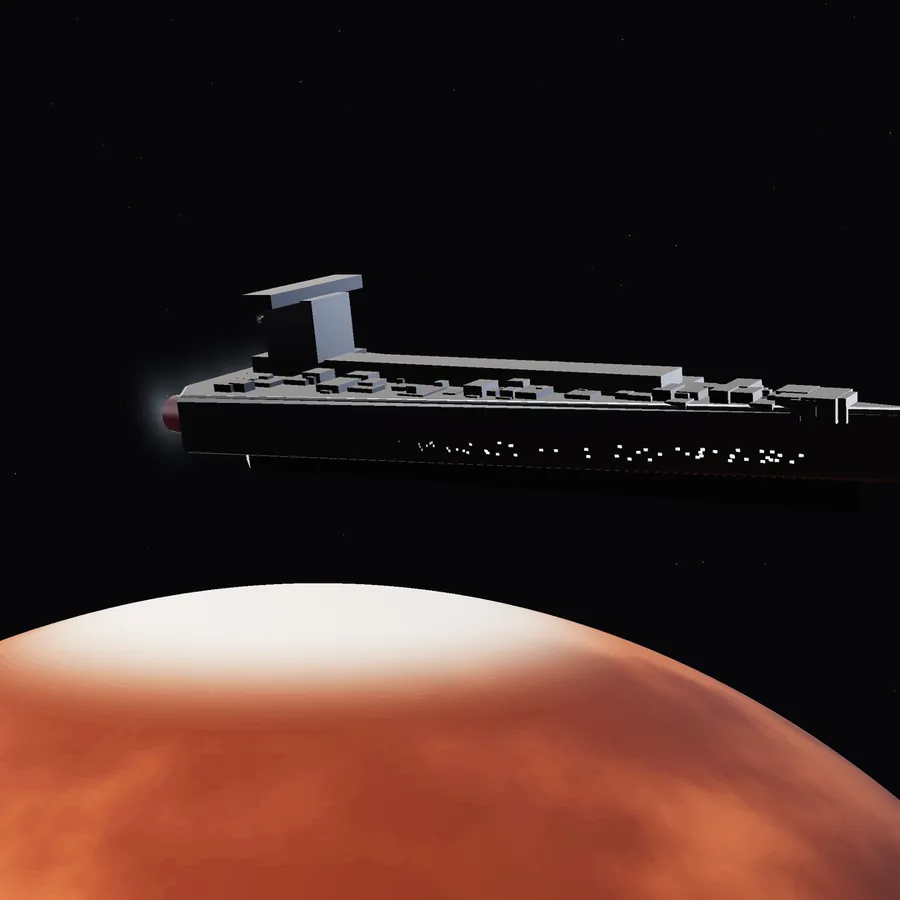
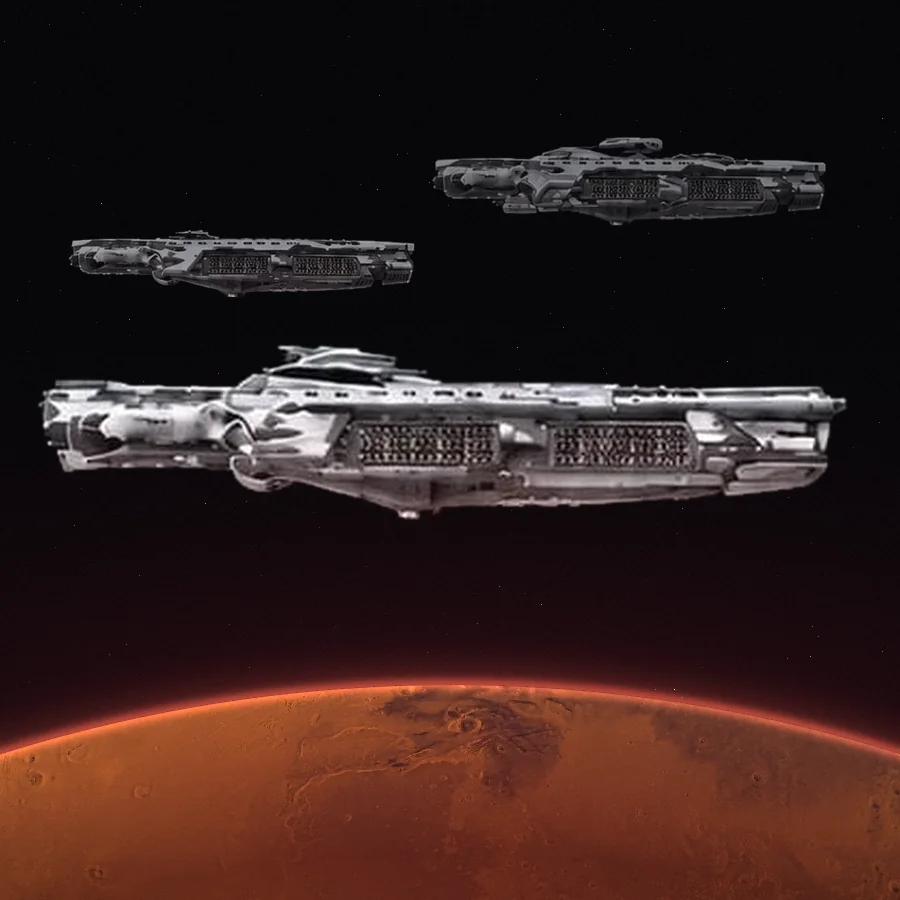
the-rising-archive: burgundy corners site-wide; retired renders gone; real ship plates
- The ambient: the dossier header's burgundy, as a fixed layer behind
  every page, fading in from the top-left corner with a fainter echo from
  the bottom-right; headers no longer add their own red glow on top.
- Every generated image is retired: relic renders, code-drawn book plates
  and the old place/seal/Rising/vault renders are deleted, the Fan Art
  page becomes Fan art and sources, and Sons of Ares shows Fitchner's
  framed portrait.
- Dreadnoughts and starships: ship art from the video game Dreadnought
  (the owner's image) in formation over NASA's Mars, credited as a
  stand-in. PsychoSpike: a 19th-century hairpin from The Met.
- Grid cells lift their content inside the cell on reveal, so the grid
  line colour no longer flashes through the gap; the footer's image note
  is accurate again.

Claude-Session: https://claude.ai/code/session_013FcwhpvnvFTAqo8e5UMege

diff --git a/the-rising-archive/app/fandom/fan-art/page.tsx b/the-rising-archive/app/fandom/fan-art/page.tsx
@@ -1,7 +1,5 @@
 import type { Metadata } from "next";
 import PageHeader from "@/components/typography/PageHeader";
-import Plate from "@/components/archive/Plate";
-import Spotlight from "@/components/archive/Spotlight";
 import FramedPortrait from "@/components/archive/FramedPortrait";
 import { getExtended } from "@/lib/data/extended";
 import { getPerson, safeAs } from "@/lib/data/people";
@@ -15,45 +13,18 @@ const portraitName = (slug: string) => {
 };
 
 export const metadata: Metadata = {
-  title: "The archive’s plates",
-  description: "The character portraits, fan art credited to its artists, and the archive’s own images: three.js renders and code-drawn plates made for this site.",
+  title: "Fan art and sources",
+  description: "The character portraits, fan art credited to its artists, and the source of every other image on the site.",
   alternates: { canonical: "./" },
 };
-
-const GROUPS: { title: string; note: string; items: { src: string; alt: string; w?: number; h?: number }[] }[] = [
-  {
-    title: "Six books",
-    note: "Code-drawn plates, one symbol per book. Not the published covers.",
-    items: ["red-rising", "golden-son", "morning-star", "iron-gold", "dark-age", "light-bringer"].map((s) => ({ src: `/images/books/${s}.webp`, alt: `Book plate for ${s.replace(/-/g, " ")}.`, w: 900, h: 1350 })),
-  },
-  {
-    title: "Twenty relics",
-    note: "One object for each of the twenty, rendered as museum pieces. They stood in for the portraits before the portraits came.",
-    items: ["darrow", "virginia", "cassius", "sevro", "pax", "diomedes", "atlas", "lysander", "victra", "the-jackal", "apollonius", "lyria", "ephraim", "volga", "ragnar", "kavax", "fitchner", "lorn", "orion", "romulus"].map((s) => ({ src: `/images/people/${s}.webp`, alt: `The relic for ${s.replace(/-/g, " ")}.` })),
-  },
-  {
-    title: "The Rising",
-    note: "A movement, a war, a myth, a government.",
-    items: ["movement", "war", "myth", "government"].map((s) => ({ src: `/images/renders/rising/${s}.webp`, alt: `The Rising: ${s}.`, w: 1600, h: 900 })),
-  },
-  {
-    title: "Worlds, seals and machines",
-    note: "Planets, house seals, and the Artifact Vault.",
-    items: [
-      ...["mars", "luna", "earth", "mercury", "venus", "io"].map((s) => ({ src: `/images/renders/places/${s}.webp`, alt: `${s}, rendered.` })),
-      ...["augustus", "bellona", "lune", "telemanus", "raa"].map((s) => ({ src: `/images/renders/houses/${s}.webp`, alt: `The ${s} seal.` })),
-      ...["razor", "starshell", "dreadnought", "starship", "minds-eye", "carving", "psychospike", "holotech"].map((s) => ({ src: `/images/renders/vault/${s}.webp`, alt: `${s.replace(/-/g, " ")}, from the Vault.` })),
-    ],
-  },
-];
 
 export default function FanArtPage() {
   return (
     <>
       <PageHeader
         trail={[{ href: "/", label: "Archive" }, { href: "/fandom/", label: "The Fandom" }, { href: "/fandom/fan-art/", label: "Fan art" }]}
-        title="The archive’s plates"
-        lede="The character portraits are the fandom’s work, credited to the artists below. The renders further down are the archive’s own: three.js scenes and posters drawn in code. Where a real, public-domain image came closer, the site uses it instead; those are listed at the end."
+        title="Fan art and sources"
+        lede="The character portraits are the fandom’s work, credited to the artists below. Every other image on the site is a real object, painting, photograph or published cover, and each is listed at the end with where it came from."
       >
         <p className="mt-6 max-w-[56ch] text-sm text-ash-2">
           For the fandom’s real artists, go where they post:{" "}
@@ -84,26 +55,11 @@ export default function FanArtPage() {
           </ul>
         </div>
       </section>
-      {GROUPS.map((g) => (
-        <section key={g.title} aria-labelledby={g.title} className="border-t border-line px-5 py-16 md:px-8">
-          <div className="mx-auto max-w-[1400px]">
-            <h2 id={g.title} className="font-display text-h3 font-bold uppercase">{g.title}</h2>
-            <p className="mt-2 text-ash">{g.note}</p>
-            <ul role="list" className={g.title === "Six books" ? "mt-8 grid grid-cols-2 gap-3 md:grid-cols-6" : g.title === "The Rising" ? "mt-8 grid gap-3 md:grid-cols-2" : "mt-8 grid grid-cols-2 gap-3 md:grid-cols-5"}>
-              {g.items.map((it) => (
-                <Spotlight as="li" tone="gold" key={it.src}>
-                  <Plate src={it.src} alt={it.alt} width={it.w ?? 900} height={it.h ?? 900} sizes="(min-width: 768px) 20vw, 50vw" />
-                </Spotlight>
-              ))}
-            </ul>
-          </div>
-        </section>
-      ))}
       <section aria-labelledby="sources-title" className="border-t border-line px-5 py-16 md:px-8">
         <div className="mx-auto max-w-[1400px]">
           <h2 id="sources-title" className="font-display text-h3 font-bold uppercase">Real images used on the site</h2>
           <p className="mt-2 max-w-[70ch] text-ash">
-            Where a real object, painting or photograph came close to what the books describe, it replaced the archive’s render. All are public domain: The Met’s Open Access collection and NASA.
+            Where a real object, painting or photograph came close to what the books describe, it stands in for the thing itself. Most are public domain, from The Met’s Open Access collection and NASA. The two warship plates are art from the video game Dreadnought, credited to it. The book covers are credited on the Story pages.
           </p>
           <ul role="list" className="mt-8 grid gap-x-10 gap-y-3 md:grid-cols-2">
             {Object.entries(CREDITS).map(([src, c]) => (

diff --git a/the-rising-archive/lib/data/credits.ts b/the-rising-archive/lib/data/credits.ts
@@ -1,9 +1,9 @@
-// Public-domain images that replaced the archive's generated plates where a
-// real thing came close to the description (scripts/art/sourced.py). Every
-// one is public domain: The Metropolitan Museum of Art's Open Access
+// Real images that replaced the archive's generated plates where a
+// real thing came close to the description (scripts/art/sourced.py). All
+// but two are public domain: The Metropolitan Museum of Art's Open Access
 // (CC0) and NASA imagery (not copyrighted). The generated originals are
-// kept in /images/renders/ for the Fan Art page. Dreadnoughts, starships
-// and PsychoSpikes keep their renders: nothing real comes close.
+// retired. The dreadnought and starship plates are ship art from the video
+// game Dreadnought (the owner's image), credited as a stand-in.
 
 export type Credit = { title: string; by: string; source: string; url: string; alt: string };
 
@@ -11,6 +11,9 @@ const met = (id: number) => `https://www.metmuseum.org/art/collection/search/${i
 const nasa = (id: string) => `https://images.nasa.gov/details/${id}`;
 const MET = "The Metropolitan Museum of Art, Open Access (public domain)";
 const NASA = "NASA (public domain)";
+// Not public domain: game art the owner supplied, used as a stand-in the
+// way the rapier stands in for a razor, and credited to the game.
+const GAME = "Video game art, a stand-in (not public domain)";
 
 export const CREDITS: Record<string, Credit> = {
   "/images/vault/razor.webp": { title: "Rapier", by: "Italian, ca. 1610–20", source: MET, url: met(22369), alt: "A rapier’s ornate steel hilt, standing in for a razor." },
@@ -18,6 +21,9 @@ export const CREDITS: Record<string, Credit> = {
   "/images/vault/minds-eye.webp": { title: "Wedjat Eye Amulet", by: "Egyptian, 332–30 BCE", source: MET, url: met(550940), alt: "A gold Eye of Horus amulet." },
   "/images/vault/carving.webp": { title: "Bronze scalpel", by: "Roman, 1st–2nd century CE", source: MET, url: met(244206), alt: "A Roman bronze scalpel." },
   "/images/vault/holotech.webp": { title: "Terracotta roundels in the form of theatrical masks", by: "Greek, 1st century BCE", source: MET, url: met(257595), alt: "Two theatre masks, one grave, one grinning." },
+  "/images/vault/dreadnought.webp": { title: "Invictus, Lorica and Gravis", by: "Dreadnought (YAGER), over NASA’s Mars", source: GAME, url: "https://en.wikipedia.org/wiki/Dreadnought_(video_game)", alt: "Three dreadnoughts in formation above the limb of Mars, standing in for the Pax." },
+  "/images/vault/starship.webp": { title: "Zaratan leading a formation", by: "Dreadnought (YAGER), over NASA’s Mars", source: GAME, url: "https://en.wikipedia.org/wiki/Dreadnought_(video_game)", alt: "A gold-trimmed warship leading a formation of cruisers above Mars." },
+  "/images/vault/psychospike.webp": { title: "Hairpin", by: "Sri Lankan, 19th century", source: MET, url: met(90207), alt: "An ornate 19th-century hairpin beside its cap, standing in for a PsychoSpike." },
   "/images/houses/augustus.webp": { title: "Marble statue of a lion", by: "Greek, ca. 400–390 BCE", source: MET, url: met(248140), alt: "A marble lion, crouched to spring." },
   "/images/houses/bellona.webp": { title: "Eagle", by: "American, 1809–11", source: MET, url: met(17139), alt: "A gilded eagle, wings spread." },
   "/images/houses/telemanus.webp": { title: "Netsuke of Fox", by: "Japanese, 19th century", source: MET, url: met(60375), alt: "A carved ivory fox." },

diff --git a/the-rising-archive/components/navigation/SiteFooter.tsx b/the-rising-archive/components/navigation/SiteFooter.tsx
@@ -2,13 +2,13 @@ import Link from "next/link";
 
 export default function SiteFooter() {
   return (
-    <footer className="relative z-10 border-t border-line bg-void">
+    <footer className="relative z-10 border-t border-line bg-void/40">
       {/* pb leaves room for the fixed sealed-passages notice */}
       <div className="mx-auto grid max-w-[1400px] gap-10 px-5 pt-16 pb-28 md:grid-cols-[2fr_1fr_1fr] md:px-8">
         <div>
           <p className="font-display text-3xl font-bold tracking-tight uppercase">The Red Rising Archive</p>
           <p className="mt-4 max-w-[52ch] text-sm text-ash">
-            An unofficial fan archive. Red Rising, its characters and its world belong to Pierce Brown and his publishers. Plot facts here were checked against published sources; interpretation is marked as the archivist&rsquo;s own. The book covers are the publisher&rsquo;s (Del Rey, Penguin Random House), shown to identify the books. The character portraits are fan art, credited to their artists on the Fan Art page. The planets are NASA photographs, and the museum pieces and paintings come from The Met’s public-domain collection. Everything else was made for this site.
+            An unofficial fan archive. Red Rising, its characters and its world belong to Pierce Brown and his publishers. Plot facts here were checked against published sources; interpretation is marked as the archivist&rsquo;s own. The book covers are the publisher&rsquo;s (Del Rey, Penguin Random House), shown to identify the books. The character portraits are fan art, credited to their artists on the Fan Art page. The planets are NASA photographs, the museum pieces and paintings come from The Met’s public-domain collection, and the two warship plates are art from the video game Dreadnought, as stand-ins. Every source is listed on the Fan Art page.
           </p>
         </div>
         <nav aria-label="Footer">

diff --git a/the-rising-archive/components/archive/Reveal.tsx b/the-rising-archive/components/archive/Reveal.tsx
@@ -11,25 +11,31 @@ gsap.registerPlugin(ScrollTrigger, useGSAP);
 /** Scroll reveal that NEVER touches opacity: only a lift. Content is fully
  * readable if JS fails, under a full-page screenshot, in print, and under
  * reduced motion (where the tween is skipped entirely). Lesson carried over
- * from this repo’s book-site-react and red-rising-archive builds. */
+ * from this repo’s book-site-react and red-rising-archive builds.
+ * `cell`: for a cell in a hairline grid (gap-px over bg-line). The content
+ * lifts inside the cell instead of the cell itself, so the grid's line
+ * colour never shows through the gap while it moves. */
 export default function Reveal({
   children,
   as: Tag = "div",
   delay = 0,
   y = 28,
   className,
+  cell = false,
 }: {
   children: React.ReactNode;
   as?: React.ElementType;
   delay?: number;
   y?: number;
   className?: string;
+  cell?: boolean;
 }) {
   const ref = useRef<HTMLElement>(null);
+  const inner = useRef<HTMLDivElement>(null);
   useGSAP(
     () => {
       if (!ref.current || prefersReducedMotion()) return;
-      gsap.from(ref.current, {
+      gsap.from(cell && inner.current ? inner.current : ref.current, {
         y,
         duration: duration.reveal,
         delay,
@@ -41,7 +47,13 @@ export default function Reveal({
   );
   return (
     <Tag ref={ref} className={className}>
-      {children}
+      {cell ? (
+        <div ref={inner} className="h-full">
+          {children}
+        </div>
+      ) : (
+        children
+      )}
     </Tag>
   );
 }

diff --git a/the-rising-archive/app/world/vault/page.tsx b/the-rising-archive/app/world/vault/page.tsx
@@ -22,12 +22,12 @@ export default function VaultPage() {
         tone="rim"
         trail={[{ href: "/", label: "Archive" }, { href: "/world/", label: "The World" }, { href: "/world/vault/", label: "Vault" }]}
         title="The Artifact Vault"
-        lede="The machinery of the war, catalogued like museum pieces. Where something real comes close, it stands in: a real sword for the razor, real armour for the StarShell. The rest are the archive’s own renders."
+        lede="The machinery of the war, catalogued like museum pieces. Where something real comes close, it stands in: a real sword for the razor, real armour for the StarShell, a video game’s warships for the fleet, a hairpin for the PsychoSpike."
       />
       <section aria-label="Artifacts" className="px-5 pb-20 md:px-8">
         <ul role="list" className="mx-auto grid max-w-[1400px] gap-px bg-line md:grid-cols-2">
           {VAULT.map((a, i) => (
-            <Reveal as="li" key={a.slug} delay={(i % 2) * 0.06} className="bg-void">
+            <Reveal as="li" cell key={a.slug} delay={(i % 2) * 0.06} className="bg-void">
               <Spotlight as="article" tone="red" className={cn("grid h-full gap-0 sm:grid-cols-2", i % 4 >= 2 && "sm:[&>*:first-child]:order-2")}>
                 <Plate src={a.plate} alt={altFor(a.plate, `${a.name}, rendered for this archive.`)} className="aspect-square object-cover" sizes="(min-width: 768px) 25vw, 50vw" />
                 <div className="flex flex-col p-6 md:p-8">

diff --git a/the-rising-archive/app/people/[slug]/page.tsx b/the-rising-archive/app/people/[slug]/page.tsx
@@ -79,7 +79,7 @@ function Special({ person }: { person: Person }) {
       ["Status", "Banished from the Core to the Kuiper Belt in 739 PCE. Later returned."],
     ];
     return (
-      <section aria-label="The Atlas files" className="border-t border-line bg-void-2 px-5 py-20 md:px-8">
+      <section aria-label="The Atlas files" className="border-t border-line bg-void-2/60 px-5 py-20 md:px-8">
         <div className="mx-auto max-w-[1100px]">
           <div className="flex flex-wrap items-center gap-4">
             <h2 className="font-mono text-lg tracking-[0.3em] text-rim uppercase">The Atlas files</h2>
@@ -123,7 +123,6 @@ export default async function DossierPage({ params }: PageProps<"/people/[slug]"
           aria-hidden
           className={cn(
             "pointer-events-none absolute inset-0",
-            person.register === "red" && "bg-[radial-gradient(ellipse_70%_70%_at_10%_0%,rgba(122,15,23,0.32),transparent_70%)]",
             person.register === "gold" && "bg-[radial-gradient(ellipse_70%_70%_at_10%_0%,rgba(146,111,52,0.2),transparent_70%)]",
             person.register === "rim" && "bg-[radial-gradient(ellipse_70%_70%_at_10%_0%,rgba(170,178,186,0.16),transparent_70%)]",
             person.register === "none" && "bg-[radial-gradient(ellipse_70%_70%_at_10%_0%,rgba(147,143,136,0.12),transparent_70%)]",

diff --git a/the-rising-archive/app/globals.css b/the-rising-archive/app/globals.css
@@ -152,8 +152,9 @@
   html {
     background: var(--void);
   }
+  /* No body background: the html ground and the fixed .ambient layer
+     show through it. */
   body {
-    background: var(--void);
     color: var(--bone);
     font-family: var(--font-sans), system-ui, sans-serif;
     font-size: var(--text-body);
@@ -194,6 +195,21 @@ html.lenis, html.lenis body { height: auto; }
 .lenis.lenis-smooth { scroll-behavior: auto !important; }
 .lenis.lenis-smooth [data-lenis-prevent] { overscroll-behavior: contain; }
 .lenis.lenis-stopped { overflow: hidden; }
+
+/* The ambient: the dossier header's burgundy, made site-wide (the user's
+   call). A fixed layer behind every page, so each screen, wherever you
+   scroll, has burgundy fading in from the top-left corner and a fainter
+   echo from the bottom-right, and the middle stays near-black for text.
+   Sections without their own ground let it through; cards sit on it. */
+.ambient {
+  position: fixed;
+  inset: 0;
+  z-index: -1;
+  pointer-events: none;
+  background:
+    radial-gradient(ellipse 75% 70% at 4% 0%, rgba(122, 15, 23, 0.44), transparent 70%),
+    radial-gradient(ellipse 52% 48% at 100% 100%, rgba(122, 15, 23, 0.22), transparent 70%);
+}
 
 /* Film grain: fixed, pointer-events-none, never on a scrolling container. */
 .grain {

diff --git a/the-rising-archive/app/fandom/page.tsx b/the-rising-archive/app/fandom/page.tsx
@@ -24,7 +24,7 @@ export default function FandomPage() {
       >
         <div className="mt-10 flex flex-wrap gap-8 font-mono text-meta tracking-[0.2em] uppercase">
           <Link href="/fandom/quotes/" className="border-b border-red pb-1 hover:text-red">Words that survived</Link>
-          <Link href="/fandom/fan-art/" className="border-b border-line-strong pb-1 text-ash hover:text-bone">The archive’s plates</Link>
+          <Link href="/fandom/fan-art/" className="border-b border-line-strong pb-1 text-ash hover:text-bone">Fan art and sources</Link>
         </div>
       </PageHeader>
 
@@ -63,7 +63,7 @@ export default function FandomPage() {
           </div>
           <ol role="list" className="mt-10 grid gap-px bg-line md:grid-cols-2">
             {ARGUMENTS.map((a, i) => (
-              <Reveal as="li" key={a.q} delay={(i % 2) * 0.05} className="bg-void">
+              <Reveal as="li" cell key={a.q} delay={(i % 2) * 0.05} className="bg-void">
                 <Spotlight tone="red" className="h-full p-7 md:p-10">
                 <SpoilerGate book={a.book} compact>
                   <p className="font-serif text-h3 leading-snug text-bone">{a.q}</p>

diff --git a/the-rising-archive/app/author/sons-of-ares/page.tsx b/the-rising-archive/app/author/sons-of-ares/page.tsx
@@ -1,6 +1,6 @@
 import type { Metadata } from "next";
 import PageHeader from "@/components/typography/PageHeader";
-import Plate from "@/components/archive/Plate";
+import FramedPortrait from "@/components/archive/FramedPortrait";
 import { COMICS } from "@/lib/data/author";
 
 export const metadata: Metadata = {
@@ -28,8 +28,8 @@ export default function SonsOfAresPage() {
             </p>
           </div>
           <figure>
-            <Plate src="/images/renders/rising/movement.webp" alt="A cavern full of small red lamps: a movement, before it had a name." width={1600} height={900} className="border border-line" />
-            <figcaption className="mt-3 font-mono text-meta tracking-[0.16em] text-ash-2 uppercase">Archive plate. Not the comic’s art.</figcaption>
+            <FramedPortrait slug="fitchner" name="Fitchner au Barca" size="hero" sizes="(min-width: 768px) 30vw, 80vw" />
+            <figcaption className="mt-3 font-mono text-meta tracking-[0.16em] text-ash uppercase">Fitchner, the comic’s centre. Fan art, not the comic’s.</figcaption>
           </figure>
         </div>
       </section>

diff --git a/the-rising-archive/lib/data/ideas.ts b/the-rising-archive/lib/data/ideas.ts
@@ -52,8 +52,8 @@ export const IDEAS: Idea[] = [
     slug: "honor",
     name: "Honor",
     question: "Four people. Four completely different relationships with the same word.",
-    plate: "/images/people/cassius.webp",
-    plateAlt: "A broken razor beside an untouched glass of wine.",
+    plate: "/images/portraits/cassius.webp",
+    plateAlt: "Cassius au Bellona, in fan art.",
     portrait: { slug: "cassius", name: "Cassius au Bellona" },
     lines: [],
     pairs: [
@@ -84,8 +84,8 @@ export const IDEAS: Idea[] = [
     slug: "fatherhood",
     name: "Fatherhood",
     question: "The saga is quietly obsessed with what parents leave behind.",
-    plate: "/images/people/pax.webp",
-    plateAlt: "A hoverbike built from salvage, glowing blue underneath.",
+    plate: "/images/portraits/pax.webp",
+    plateAlt: "Pax, in fan art.",
     portrait: { slug: "pax", name: "Pax" },
     lines: [],
     pairs: [

diff --git a/the-rising-archive/app/world/page.tsx b/the-rising-archive/app/world/page.tsx
@@ -31,7 +31,7 @@ export default function WorldPage() {
       <section aria-label="Parts of the world" className="px-5 pb-28 md:px-8">
         <ul role="list" className="mx-auto grid max-w-[1400px] gap-px bg-line md:grid-cols-6">
           {PARTS.map((p, i) => (
-            <Reveal as="li" key={p.href} delay={i * 0.04} className={cn("bg-void", p.span)}>
+            <Reveal as="li" cell key={p.href} delay={i * 0.04} className={cn("bg-void", p.span)}>
               <Spotlight tone="gold" className="h-full">
               <Link href={p.href} className="group relative flex h-full min-h-[22rem] flex-col justify-end overflow-hidden">
                 <Plate src={p.plate} alt={p.alt} className="absolute inset-0 h-full object-cover opacity-70 transition-[opacity,transform] duration-700 group-hover:scale-[1.03] group-hover:opacity-90" sizes="(min-width: 768px) 60vw, 100vw" />

diff --git a/the-rising-archive/components/archive/Plate.tsx b/the-rising-archive/components/archive/Plate.tsx
@@ -4,11 +4,9 @@ import { cn } from "@/lib/utils";
 // Static export + basePath: next/image does not prefix public paths, so we do.
 const BASE = process.env.NEXT_PUBLIC_BASE_PATH ?? "";
 
-/** An archive plate: one of the rendered images in /public/images. Every
- * plate was generated for this site (three.js renders and code-drawn
- * posters), except the book covers in /images/covers (the publisher's),
- * the portraits (credited fan art) and the public-domain images listed in
- * lib/data/credits.ts. */
+/** An archive plate: one of the images in /public/images. The book covers
+ * are the publisher's, the portraits credited fan art, and every other
+ * plate is listed with its source in lib/data/credits.ts. */
 export default function Plate({
   src,
   alt,
